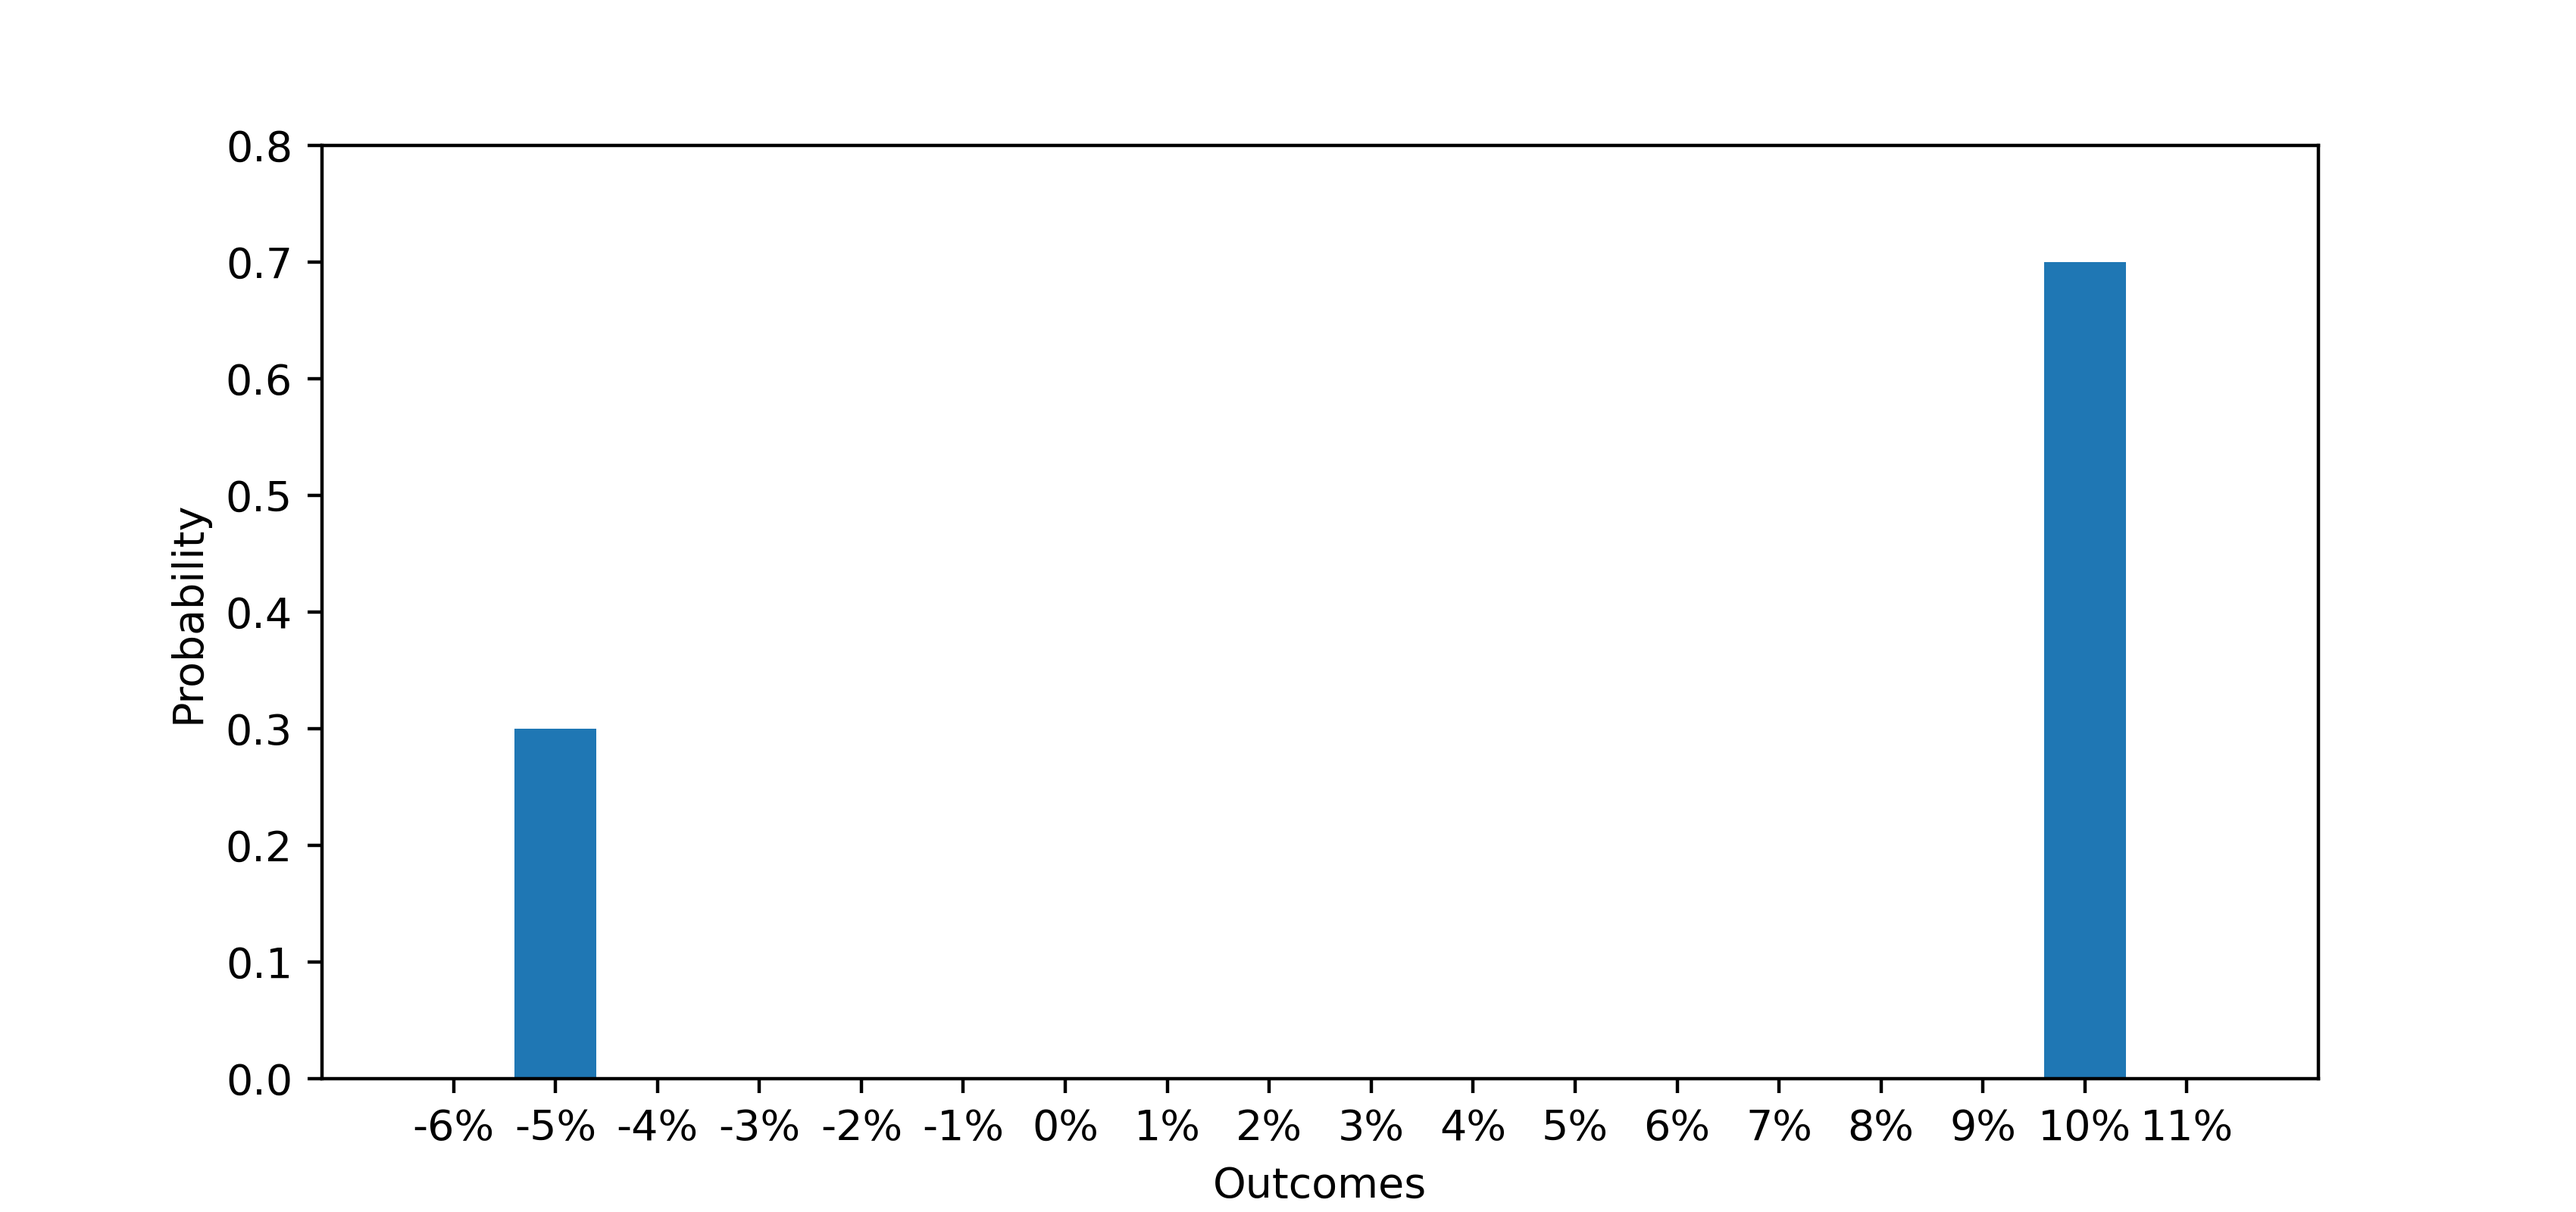
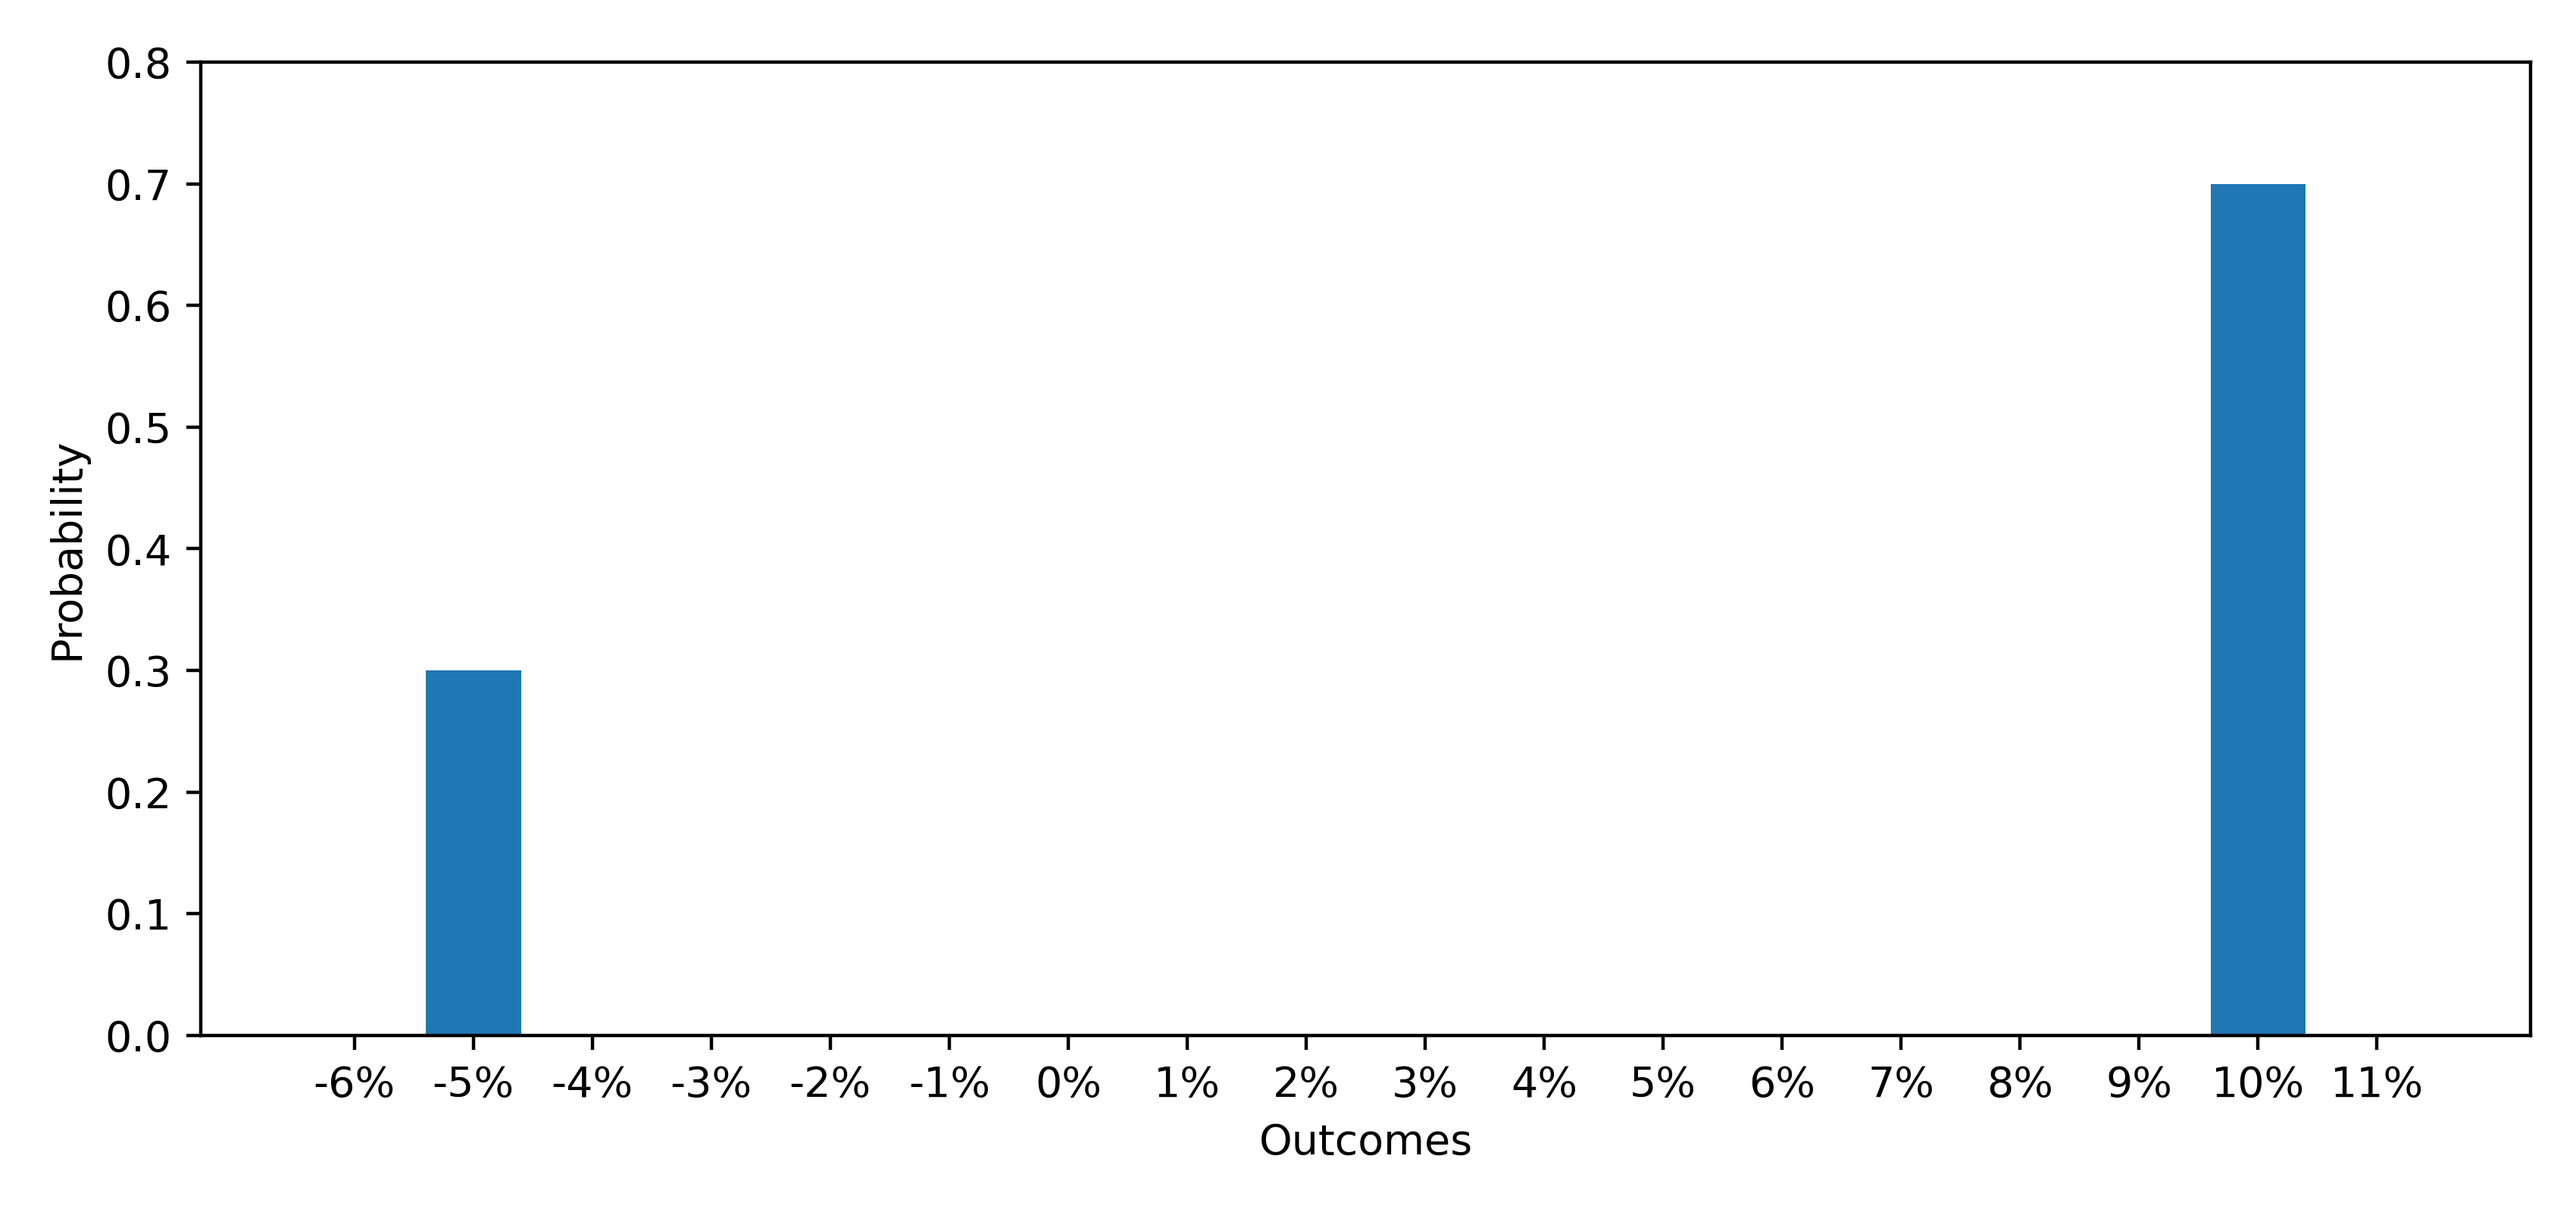
Landon more plots (#15)
* More ch 8 plots. Also upped the resolution for all my plots because the default is kinda trash.

* more plots. updated some of my previous ones so they look nicer.

* more plots. updated some of my previous ones so they look nicer.

* yay more plots

* yay more plots

diff --git a/CH8_8.4.1.py b/CH8_8.4.1.py
@@ -1,0 +1,77 @@
+import matplotlib.pyplot as plt
+import numpy as np
+
+fig, axes = plt.subplots(1, 2,figsize=(10,4))
+
+
+it=axes[0]
+
+it.set_frame_on(False)
+it.xaxis.set_visible(False)
+it.yaxis.set_visible(False)
+
+it.plot([0,10],[4.65,4.65],color='black')
+it.plot([.6,10],[10,10],color='black')
+it.plot([0,10],[9.3,9.3],color='black')
+it.plot([4.7+.6,4.7+.6],[0,10],color='black')
+it.plot([.6,.6],[0,10],color='black')
+it.plot([0,10],[0,0],color='black')
+it.plot([0,0],[0,9.3],color='black')
+it.plot([10,10],[0,10],color='black')
+
+
+
+plt.text(-11.1,8,'Case 1',fontweight='bold',fontsize=10)
+plt.text(-6.65,8,'Case 2',fontweight='bold',fontsize=10)
+plt.text(-11.1,4.1,'Case 3',fontweight='bold',fontsize=10)
+plt.text(-6.65,4.1,'Case 4',fontweight='bold',fontsize=10)
+plt.text(-10.5,9.17,'+',fontweight='bold',fontsize=10)
+plt.text(-12.93,7,'+',fontweight='bold',fontsize=10)
+plt.text(-6,9.37,'_',fontweight='bold',fontsize=10)
+plt.text(-12.85,3.45,'_',fontweight='bold',fontsize=10)
+plt.text(-9.3,10,r"$E\:[r_A]-r_f$",fontsize=13,fontweight='bold')
+plt.text(-13.9,5,r"$\beta_{A,p}$",fontsize=13,fontweight='bold',rotation='vertical')
+plt.text(-10.25, 6.7, "Sign of alpha not\nknown unless\ncalculated", ha='center', va='center')
+plt.text(-5.85,6.92,'Alpha must be\nnegative',ha='center',va='center')
+plt.text(-10.25,3.02,'Alpha must be\npositive',ha='center',va='center')
+plt.text(-5.85, 2.8, "Sign of alpha not\nknown unless\ncalculated", ha='center', va='center')
+
+
+
+asdf=plt.gca()
+x=np.linspace(0,7,1000)
+y=[t+2 for t in x]
+plt.plot(x,y,color='black')
+plt.scatter([4],[6],s=85,color='black')
+plt.plot([3,5],[6,6],'--',color='black')
+plt.plot([3,3],[4,8],'--',color='black')
+plt.plot([5,5],[4,8],'--',color='black')
+plt.scatter([3,3,5,5],[4,8,4,8],s=30,color='black')
+plt.text(4.3,8.4,"Case 1")
+plt.text(4.3,3.3,"Case 2")
+plt.text(2.3,8.4,"Case 3")
+plt.text(2.3,3.3,"Case 4")
+
+
+
+plt.text(-.7, 9.7, r"$E\:[r]$", ha='center', va='center', fontsize=12)
+plt.text(7.5,.5,r"$\sigma$",fontsize=12)
+
+
+
+
+asdf.set_xticks([])
+asdf.set_yticks([])
+asdf.spines['right'].set_visible(False)
+asdf.spines['top'].set_visible(False)
+for spine in asdf.spines.values():
+    spine.set_linewidth(2.5)
+
+
+plt.xlim(0,8)
+plt.ylim(1,10)
+asdf.set_aspect('equal')
+
+
+plt.savefig('plots/CH8_8.4.1.png',dpi=400)
+plt.show()

diff --git a/CH16_16.5.2.py b/CH16_16.5.2.py
@@ -1,0 +1,37 @@
+import matplotlib.pyplot as plt
+import numpy as np
+
+fig, axes = plt.subplots(1, 1, figsize=(8,4))
+yeet=plt.gca()
+
+x=[np.linspace(1.51795,28,1000),np.linspace(0,13.45,1000),np.linspace(0,26.8,1000)]
+funky=[lambda n: 7*np.log10(n-1)+2,lambda n: 0.8*1.8**(0.5*n-2)-0.246194,lambda n: 2.5**(0.2*n-2.5)-0.16]
+
+plt.plot([6.7546,6.7546],[funky[0](6.7546),funky[1](6.7546)],color='black',lw=1.2,linestyle=(0,(3,3)))
+plt.plot([13.88063,13.88063],[funky[0](13.88063),funky[2](13.88063)],color='black',lw=1.2,linestyle=(0,(3,3)))
+
+plt.plot(x[0],[funky[0](x) for x in x[0]],color='black',lw=2)
+plt.plot(x[1],[funky[1](x) for x in x[1]],color='black',lw=2)
+plt.plot(x[2],[funky[2](x) for x in x[2]],color='black',lw=2,linestyle=(0,(4,4)))
+
+yeet.spines['right'].set_visible(False)
+yeet.spines['top'].set_visible(False)
+yeet.set_xticks([6.7546,13.88063],labels=[r"$I_B$",r"$I_E$"])
+yeet.set_yticks([])
+plt.text(23.5,-.8,"Amount of Information",fontsize=10)
+plt.text(-3.8,15,"Costs and",fontsize=10)
+plt.text(-3.25,14.2,"Benefits",fontsize=10)
+plt.text(10.6,13.9,"Cost of Additional")
+plt.text(9.8,13.1,"Information (Beginner)")
+plt.text(24.17,14.8,"Cost of Additional")
+plt.text(23.8,14,"Information (Expert)")
+plt.text(28.5,12.2,"Benefit of Additional")
+plt.text(28.5,11.4,"Information")
+
+plt.ylim(0,16)
+plt.xlim(0,32)
+
+plt.tight_layout()
+plt.savefig('plots/CH16_16.5.2.png',dpi=400)
+plt.show()
+

diff --git a/CH15_15.2.1_hockeysticks.py b/CH15_15.2.1_hockeysticks.py
@@ -1,0 +1,46 @@
+import matplotlib.pyplot as plt
+
+nice_blue=(10/255,102/255,194/255)
+nice_red=(210/255, 43/255, 43/255)
+fig, axes = plt.subplots(2, 2, figsize=(12,7))
+
+
+figz=[axes[0,0],axes[0,1],axes[1,0],axes[1,1]]
+
+
+figz[0].plot([90,99.94],[-1,-1],color=nice_blue,lw=2.2)
+figz[0].plot([100.02,110],[-.98,9],color=nice_blue,lw=2.2)
+figz[0].set_title('Long Call Option Profit')
+
+figz[1].plot([90,99.98],[9,-.98],color=nice_red,lw=2.2)
+figz[1].plot([100.06,110],[-1,-1],color=nice_red,lw=2.2)
+figz[1].set_title('Long Put Option Profit')
+
+figz[2].plot([90,99.94],[1,1],color=nice_blue,lw=2.2)
+figz[2].plot([100.02,110],[.98,-9],color=nice_blue,lw=2.2)
+figz[2].set_title('Short Call Option Profit')
+
+figz[3].plot([90,99.98],[-9,.98],color=nice_red,lw=2.2)
+figz[3].plot([100.06,110],[1,1],color=nice_red,lw=2.2)
+figz[3].set_title('Short Put Option Profit')
+
+for axes in figz:
+    axes.spines['right'].set_visible(False)
+    axes.spines['top'].set_visible(False)
+    axes.spines['bottom'].set_position('zero')
+    axes.set_xticks([85, 90, 95, 100, 105, 110, 115])
+    axes.set_xlim(80,115)
+
+for a in [0,1]:
+    figz[a].set_yticks([-2,0,2,4,6,8,10])
+
+for a in [2,3]:
+    figz[a].set_yticks([-10,-8,-6,-4,-2,0,2])
+
+plt.subplots_adjust(hspace=0.4)
+plt.subplots_adjust(wspace=0.2)
+
+# plt.tight_layout()
+plt.savefig('plots/CH15_15.2.1_hockeysticks.png',dpi=400)
+plt.show()
+

diff --git a/CH8_hw_a_pg228.py b/CH8_hw_a_pg228.py
@@ -1,0 +1,34 @@
+import matplotlib.pyplot as plt
+import numpy as np
+
+asdf=plt.gca()
+y=np.linspace(2.1,10.23046,1000)
+x=[0.3*(z-6)**2+3 for z in y]
+plt.plot(x,y,color=(10/255,102/255,194/255),zorder=1,lw=2)
+plt.plot([0,8.3],[4.5,11.41667],color=(10/255,102/255,194/255),lw=1.2,zorder=2)
+plt.plot([0,4.2],[8,8],'--',color='black',lw=1,zorder=3)
+plt.plot([0,3],[6,6],'--',color='black',lw=1,zorder=4)
+plt.plot([0,5.7],[3,3],'--',color='black',lw=1,zorder=5)
+plt.scatter([4.2,3,5.7],[8,6,3],color=(10/255,102/255,194/255),s=40,zorder=6)
+
+asdf.set_yticks([3,4.5,6,8], labels=["-0.01","0.04","0.06","0.12"])
+
+plt.text(-.7, 11.5, r"$E\:[r]$", ha='center', va='center', fontsize=12)
+plt.text(10.3,.5,r"$\sigma$",fontsize=12)
+plt.text(3.3,5.8,"A",fontsize=12)
+plt.text(5.9,3.2,"B",fontsize=12)
+plt.text(4.4,7.5,'C',fontsize=12)
+
+asdf.set_xticks([])
+asdf.spines['right'].set_visible(False)
+asdf.spines['top'].set_visible(False)
+for spine in asdf.spines.values():
+    spine.set_linewidth(2.5)
+
+
+plt.xlim(0,11)
+plt.ylim(1,12)
+asdf.set_aspect('equal')
+
+plt.savefig('plots/CH8_hw_a_pg228.png',dpi=400)
+plt.show()

diff --git a/CH8_8.3.1.py b/CH8_8.3.1.py
@@ -9,16 +9,19 @@ listy=['Panel A','Panel B','Panel C']
 x_values=[1.4,2.2,2]
 
 for i, ax in enumerate(axes):
-    ax.plot(x, y, color='black')
+    ax.plot(x, y, color='black',lw=2)
     if i == 0:
+        ax.plot([x_values[i],x_values[i]],[0,1.28], color='black', linestyle=(0,(5,5)),lw=1)
         ax.plot([1, 1.8], [0.32, 2.24], color='red', lw=2)
-        ax.plot([x_values[i],x_values[i]],[0,1.28], color='black', linestyle='--',lw=1)
+
     elif i == 1:
+        ax.plot([x_values[i],x_values[i]],[0,1.92], color='black', linestyle=(0, (5, 5)),lw=1)
         ax.plot([1.498, 2.925], [2.4816,1.34], color='red', lw=2)
-        ax.plot([x_values[i],x_values[i]],[0,1.92], color='black', linestyle='--',lw=1)
+
     elif i == 2:
+        ax.plot([x_values[i],x_values[i]],[0,2], color='black', linestyle=(0, (5, 5)),lw=1)
         ax.plot([1,3],[2,2], color='red', lw=2)
-        ax.plot([x_values[i],x_values[i]],[0,2], color='black', linestyle='--',lw=1)
+
 
     ax.text(3.3, -0.13, r"$W_i$", ha='center', va='center', fontsize=10)
 

diff --git a/CH15_15.2.4_butterfly.py b/CH15_15.2.4_butterfly.py
@@ -1,0 +1,20 @@
+import matplotlib.pyplot as plt
+
+
+a,b=plt.subplots(1,1,figsize=(8,4))
+
+x=range(70,131)
+y=[-7.965,-7.965,-7.965,-7.965,-7.965,-7.965,-7.965,-7.965,-7.965,-7.965,-7.965,-6.965,-5.965,-4.965,-3.965,-2.965,-1.965,-0.965,0.035,1.035,2.035,3.035,4.035,5.035,6.035,7.035,8.035,9.035,10.035,11.035,12.035,11.035,10.035,9.035,8.035,7.035,6.035,5.035,4.035,3.035,2.035,1.035,0.035,-0.965,-1.965,-2.965,-3.965,-4.965,-5.965,-6.965,-7.965,-7.965,-7.965,-7.965,-7.965,-7.965,-7.965,-7.965,-7.965,-7.965,-7.965]
+nice_blue=(10/255,102/255,194/255)
+plt.plot(x,y,color=nice_blue,lw=2.2)
+plt.xticks([70,80,90,100,110,120,130,140])
+plt.xlim(60,140)
+plt.yticks([-10,-5,0,5,10,15])
+b.spines['right'].set_visible(False)
+b.spines['top'].set_visible(False)
+b.spines['bottom'].set_position('zero')
+plt.title('Butterfly Spread')
+
+plt.tight_layout()
+plt.savefig('plots/CH15_15.2.4_butterfly.png',dpi=400)
+plt.show()

diff --git a/CH8_hw_b_pg228.py b/CH8_hw_b_pg228.py
@@ -1,0 +1,35 @@
+import matplotlib.pyplot as plt
+import numpy as np
+
+asdf=plt.gca()
+y=np.linspace(2.1,10.23046,1000)
+x=[0.3*(z-6)**2+3 for z in y]
+plt.plot(x,y,color='black',zorder=1,lw=2)
+plt.plot([0,8.3],[4.5,11.41667],color='black',lw=1.2,zorder=2)
+
+
+
+plt.scatter([4.2],[8],color='black',s=40,zorder=6)
+
+
+
+plt.text(-.7, 11.5, r"$E\:[r]$", ha='center', va='center', fontsize=12)
+plt.text(10.3,.5,r"$\sigma$",fontsize=12)
+plt.text(5.9,10.9,"Line A",fontsize=12)
+plt.text(5.9,3.2,"Curve B",fontsize=12)
+plt.text(4.4,7.5,'Point C',fontsize=12)
+
+asdf.set_xticks([])
+asdf.set_yticks([])
+asdf.spines['right'].set_visible(False)
+asdf.spines['top'].set_visible(False)
+for spine in asdf.spines.values():
+    spine.set_linewidth(2.5)
+
+
+plt.xlim(0,11)
+plt.ylim(1,12)
+asdf.set_aspect('equal')
+
+plt.savefig('plots/CH8_hw_b_pg228.png',dpi=400)
+plt.show()

diff --git a/CH15_15.2.3_coveredcall.py b/CH15_15.2.3_coveredcall.py
@@ -1,0 +1,27 @@
+import matplotlib.pyplot as plt
+
+a,b=plt.subplots(1,1,figsize=(8,5))
+
+plt.plot([90,100],[1,1],'--',color=(1,140/255,59/255),lw=2.2)
+plt.plot([100,110],[1,-8],'--',color=(1,140/255,59/255),lw=2.2)
+
+plt.plot([90,110],[-9,11],':',color=(10/255,102/255,194/255),lw=2.2)
+
+plt.plot([90,99.95],[-8.5,1.45],color=(143/255,143/255,143/255),lw=2.2)
+plt.plot([100.03,110],[1.5,1.5],color=(143/255,143/255,143/255),lw=2.2)
+plt.title('Covered Call')
+
+plt.text(110,9.5,'stock profit')
+plt.text(110,2.2,'covered call')
+plt.text(110,-7.2,'short call profit')
+
+plt.xticks([90, 95, 100, 105, 110, 115])
+plt.yticks([-10,-5,0,5,10,15])
+plt.xlim(85,115)
+b.spines['right'].set_visible(False)
+b.spines['top'].set_visible(False)
+b.spines['bottom'].set_position('zero')
+
+plt.tight_layout()
+plt.savefig('plots/CH15_15.2.3_coveredcall.png',dpi=400)
+plt.show()

diff --git a/CH15_15.2.2_straddle.py b/CH15_15.2.2_straddle.py
@@ -1,0 +1,16 @@
+import matplotlib.pyplot as plt
+
+a,b=plt.subplots(1,1,figsize=(8,4))
+nice_blue=(10/255,102/255,194/255)
+plt.plot([90,100],[8,-2],color=nice_blue,lw=2.2)
+plt.plot([100,110],[-2,8],color=nice_blue,lw=2.2)
+plt.title("Straddle")
+b.spines['right'].set_visible(False)
+b.spines['top'].set_visible(False)
+plt.xticks([90, 95, 100, 105, 110, 115])
+plt.xlim(85,115)
+b.spines['bottom'].set_position('zero')
+
+plt.tight_layout()
+plt.savefig('plots/CH15_15.2.2_straddle.png',dpi=400)
+plt.show()

diff --git a/CH5_5.3_pdf.py b/CH5_5.3_pdf.py
@@ -8,7 +8,7 @@ x_altered=[2*x[i]+0.6 for i in range(len(x))]
 y = skewnorm.pdf(x_altered, 5)
 y_scaled = y / y.max() * 1.4
 
-plt.plot(x,y_scaled)
+plt.plot(x,y_scaled,lw=2.2)
 
 ax = plt.gca()
 ax.spines['left'].set_position(('data', 0))
@@ -25,5 +25,6 @@ plt.yticks([0.2,0.4,0.6,0.8,1,1.2,1.4,1.6])
 plt.xlabel('Outcomes')
 plt.ylim(bottom=0)
 
+plt.tight_layout()
 plt.savefig('plots/CH5_5.3_pdf.png',dpi=400)
 plt.show()

diff --git a/CH5_5.2_pdf.py b/CH5_5.2_pdf.py
@@ -5,7 +5,7 @@ import numpy as np
 x=np.linspace(-1,1,1000)
 y = norm.pdf(x, 0.08, 0.2)
 
-plt.plot(x,y)
+plt.plot(x,y,lw=2.2)
 
 plt.ylim(0,2.5)
 plt.fill_between(x,y,where=(x>0.5),color='grey')
@@ -25,6 +25,6 @@ plt.xlim(-1,1)
 plt.yticks([0.5, 1, 1.5, 2, 2.5])
 plt.xlabel('Outcomes')
 
-
+plt.tight_layout()
 plt.savefig('plots/CH5_5.2_pdf.png',dpi=400)
 plt.show()

diff --git a/CH5_5.1_pdf.py b/CH5_5.1_pdf.py
@@ -8,5 +8,6 @@ plt.ylim(0,0.8)
 plt.xlabel('Outcomes')
 plt.ylabel('Probability')
 
+plt.tight_layout()
 plt.savefig('plots/CH5_5.1_pdf.png',dpi=400)
 plt.show()
